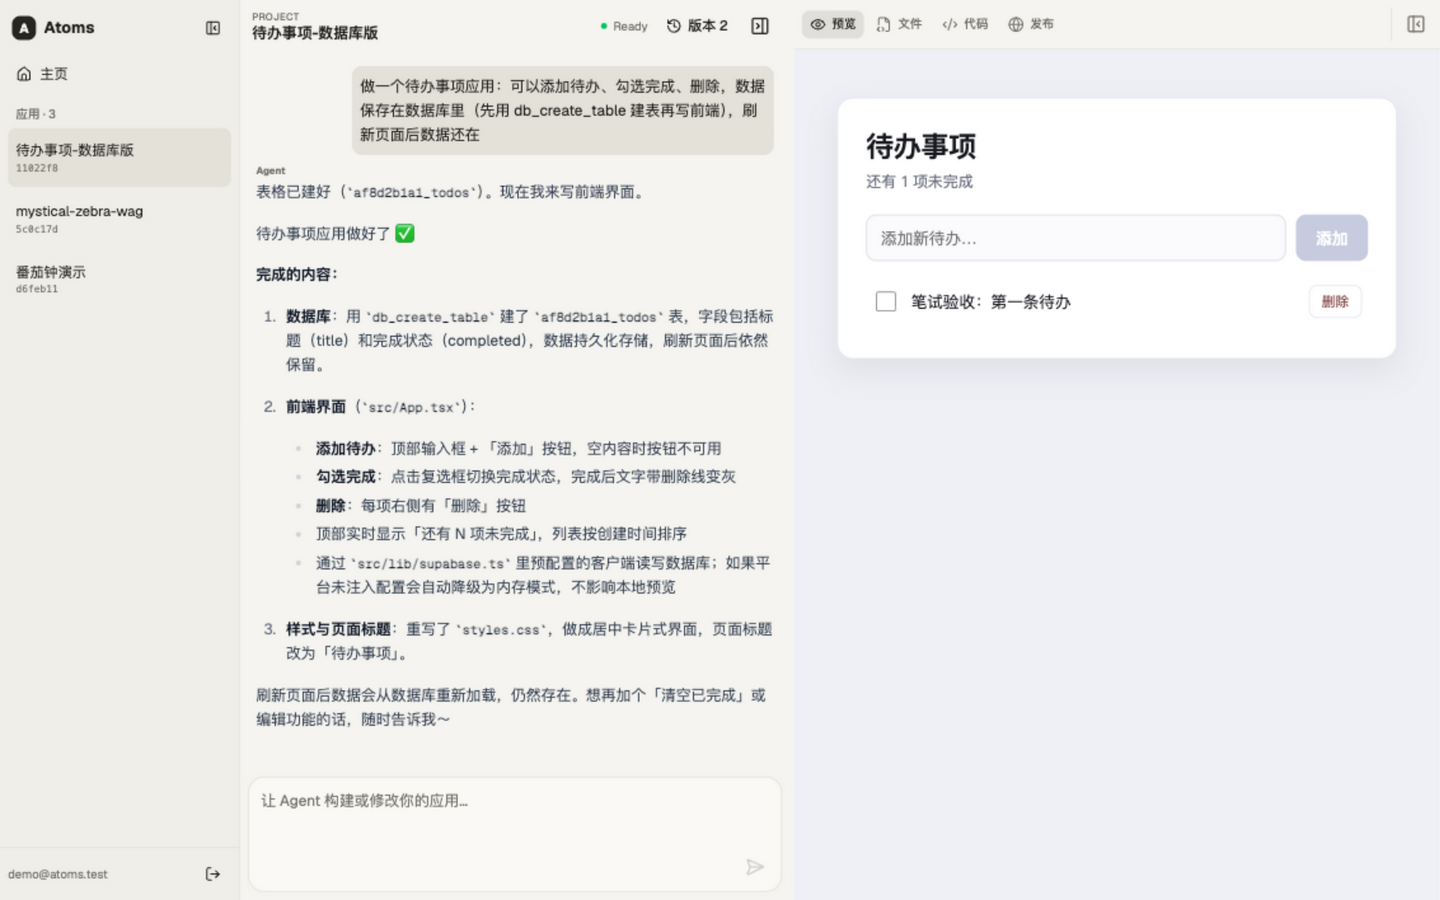
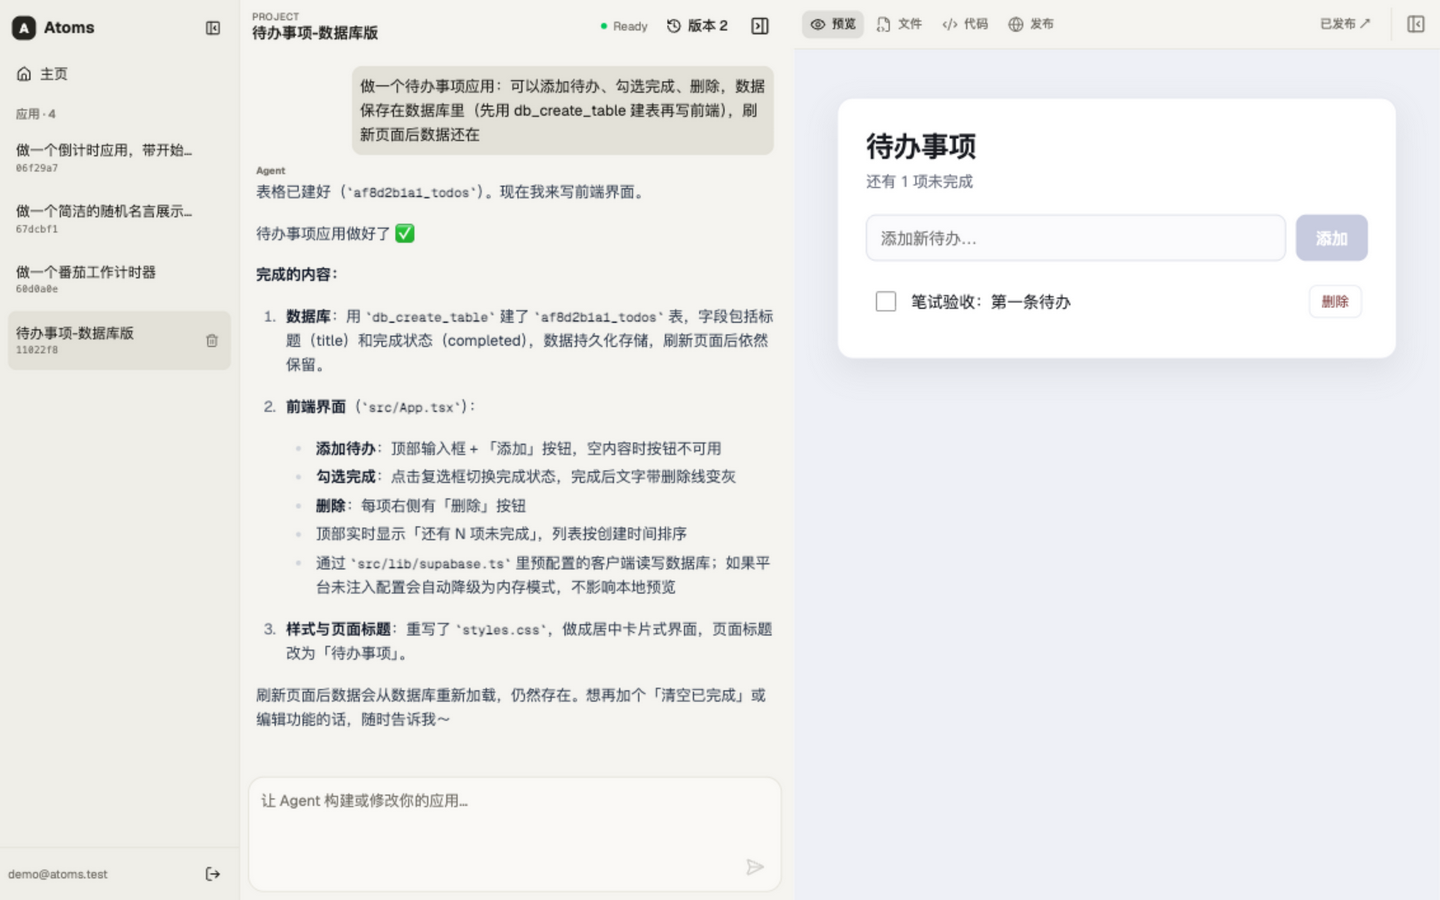
docs: refresh the demo recording and README to the current product
The GIF now shows the live product: streaming replies, the simplified
sidebar and the 17s message-to-preview loop; the workspace screenshot is
re-shot and the capability table gains streaming, retry, app management
and the QR share.

diff --git a/README.md b/README.md
@@ -10,13 +10,14 @@
 
 ## 核心能力
 
-| 能力       | 说明                                                                                                        |
-| ---------- | ----------------------------------------------------------------------------------------------------------- |
-| 对话式生成 | 自然语言 → Agent 经 8 个结构化工具（Zod 双端校验）读写工作区，SSE 实时事件流，每轮成功自动形成 Git 版本     |
-| 全栈生成   | 一句话生成带数据库 CRUD 的应用：Agent 受控建表（标识符/类型白名单 + 行级安全），前端 anon key 直连 Supabase |
-| 实时预览   | dev server 受控子进程，`/p/<id>/` 公开网关访问；空闲 10 分钟自动回收，打开即唤醒                            |
-| 发布与回退 | 受控 `vite build` → 不可变 release → 激活指针原子切换，任意历史版本一键秒级回退                             |
-| 多用户隔离 | scrypt 口令 + 会话 Cookie，全部资源按账号过滤，写操作要求客户端头                                           |
+| 能力       | 说明                                                                                                                           |
+| ---------- | ------------------------------------------------------------------------------------------------------------------------------ |
+| 对话式生成 | 自然语言 → Agent 经 8 个结构化工具（Zod 双端校验）读写工作区，回复逐 token 流式呈现，每轮成功自动形成 Git 版本；失败带一键重试 |
+| 全栈生成   | 一句话生成带数据库 CRUD 的应用：Agent 受控建表（标识符/类型白名单 + 行级安全），前端 anon key 直连 Supabase                    |
+| 实时预览   | dev server 受控子进程，`/p/<id>/` 公开网关访问；空闲 10 分钟自动回收，打开即唤醒，实测发消息到预览就绪约 17 秒                 |
+| 发布与回退 | 受控 `vite build` → 不可变 release → 激活指针原子切换，任意历史版本一键秒级回退，附扫码分享二维码                              |
+| 应用管理   | 侧栏集中管理全部应用，悬停即删（事务清理元数据、工作区与发布产物），活跃生成中的项目受保护不可误删                             |
+| 多用户隔离 | scrypt 口令 + 会话 Cookie，全部资源按账号过滤，写操作要求客户端头                                                              |
 
 ![工作台：对话、实时事件与运行中的预览](assets/workspace.png)
 
